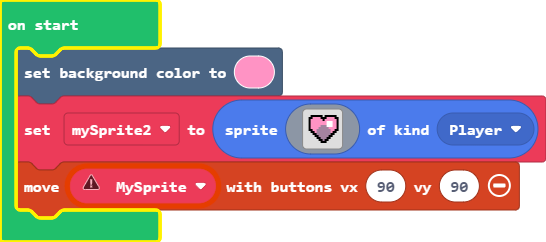
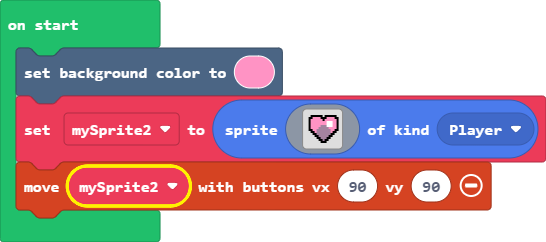
Update main.blocks, main.ts

Changed region(s): [[0.0, 0.0, 0.9652, 1.0]]

diff --git a/main.ts b/main.ts
@@ -1,4 +1,3 @@
-let MySprite: Sprite = null
 scene.setBackgroundColor(3)
 let mySprite2 = sprites.create(img`
     . . . . . . . . . . . . . . . . 
@@ -18,4 +17,4 @@ let mySprite2 = sprites.create(img`
     . . . . . . . f f f . . . . . . 
     . . . . . . . . . . . . . . . . 
     `, SpriteKind.Player)
-controller.moveSprite(MySprite, 90, 90)
+controller.moveSprite(mySprite2, 90, 90)
